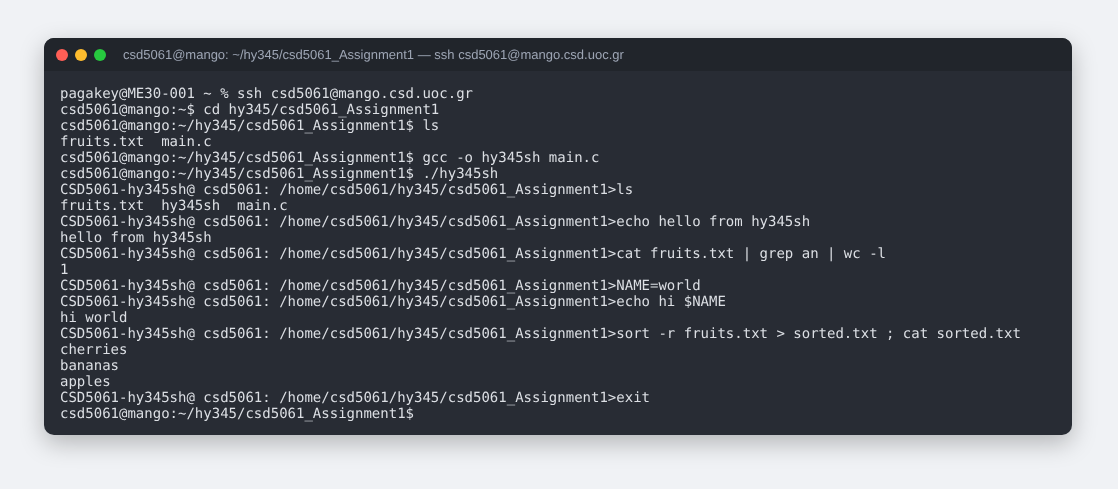
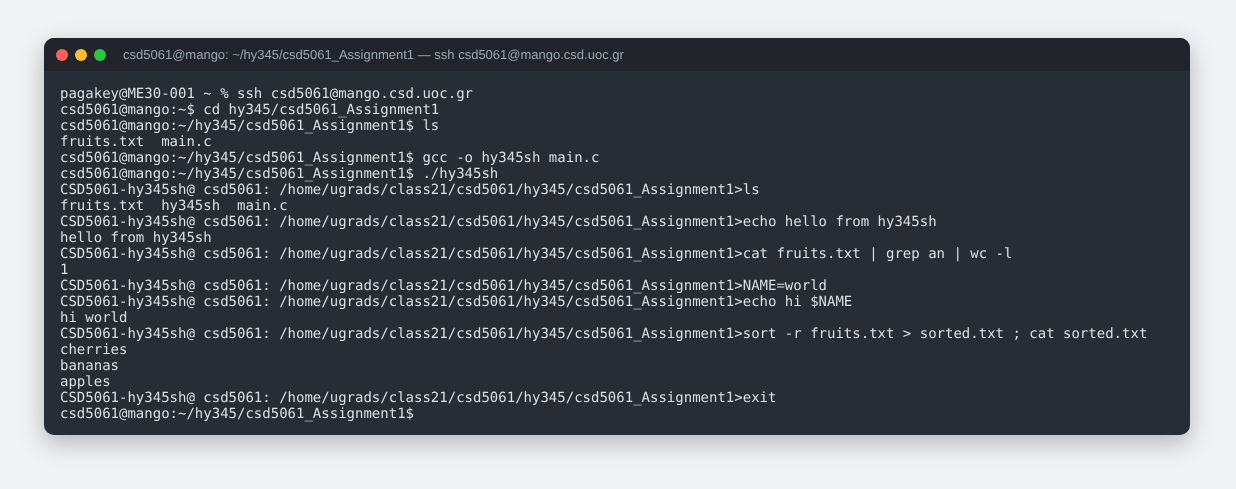
Use the real mango home directory in the shell demo
Claude-Session: https://claude.ai/code/session_01X5HQ8aaj8c6XwRA2gcg1Bz

Changed region(s): [[0.0304, 0.092, 0.9732, 0.8896]]

diff --git a/demos/README.md b/demos/README.md
@@ -11,6 +11,6 @@ All inputs are small made-up samples, included next to the images:
 | Streaming Service | [phase-a-events.txt](streaming-service/phase-a-events.txt), [phase-b-events.txt](streaming-service/phase-b-events.txt) |
 | Stratego | A few clicks: Play, move Blue's Yeti forward, move Red's Mage up, attack |
 
-The shell and bus simulation were run in a terminal session set up like the course's SSH server (user `csd5061`, host `mango`, the assignment folders under `~/hy345`), so the prompts match how they were originally used.
+The shell and bus simulation were run in a terminal session set up like the course's SSH server (user `csd5061`, host `mango`, home `/home/ugrads/class21/csd5061`, the assignment folders under `~/hy345`), so the prompts match how they were originally used.
 
 Excerpts marked `...` skip the start or middle of a long run.
